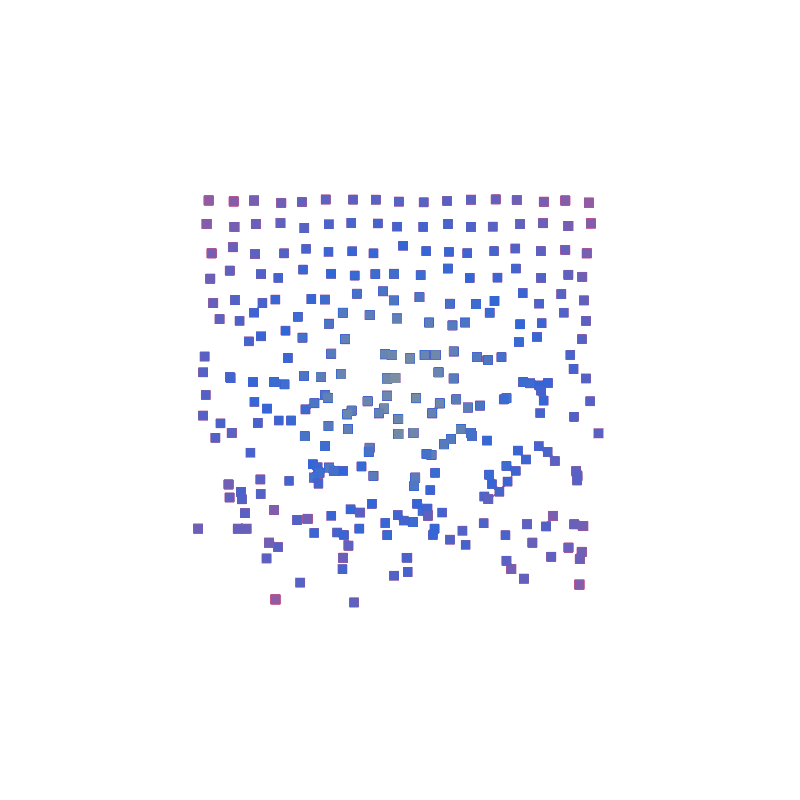
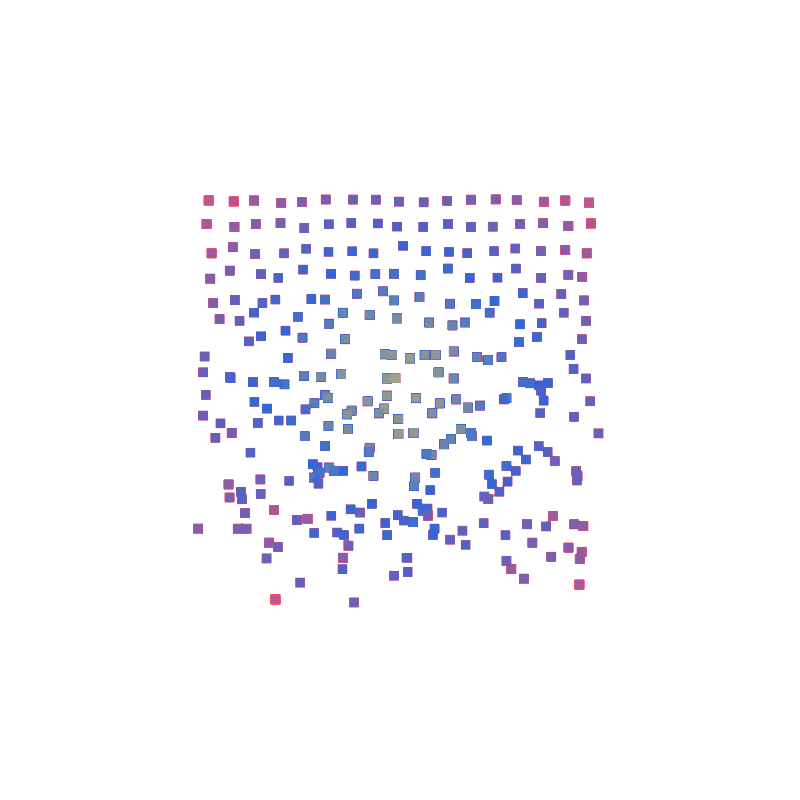
Add contrast adjustment to image processing function
Enhances the `change_image_colors` function by adding a contrast adjustment parameter to improve image appearance. Updates the default contrast value to 1.5 and applies the adjustment during grayscale normalization. Also processes updated tritone images to reflect the contrast changes.

diff --git a/utils/tritone_maker.py b/utils/tritone_maker.py
@@ -3,7 +3,9 @@ from PIL import Image
 import numpy as np
 
 
-def change_image_colors(input_dir="./img", output_dir="./img/tritone", colors=None):
+def change_image_colors(
+    input_dir="./img", output_dir="./img/tritone", colors=None, contrast=1.5
+):
     """
     Apply color filter to images using specified colors while preserving transparency.
 
@@ -11,6 +13,7 @@ def change_image_colors(input_dir="./img", output_dir="./img/tritone", colors=No
         input_dir: Directory containing input images
         output_dir: Directory to save processed images
         colors: List of RGB tuples for the colors to use as filter
+        contrast: Contrast multiplier (1.0 = no change, >1.0 = more contrast)
     """
     if colors is None:
         # Default colors - you can change these
@@ -45,6 +48,11 @@ def change_image_colors(input_dir="./img", output_dir="./img/tritone", colors=No
 
                 # Normalize grayscale to 0-1 range
                 gray_normalized = gray / 255.0
+
+                # Apply contrast adjustment
+                gray_normalized = np.clip(
+                    (gray_normalized - 0.5) * contrast + 0.5, 0, 1
+                )
 
                 # Apply color mapping based on intensity
                 colored_img = np.zeros_like(img_array)
@@ -100,4 +108,4 @@ if __name__ == "__main__":
         (255, 217, 67),  # #ffd943
     ]
 
-    change_image_colors(colors=custom_colors)
+    change_image_colors(colors=custom_colors, contrast=1.5)
